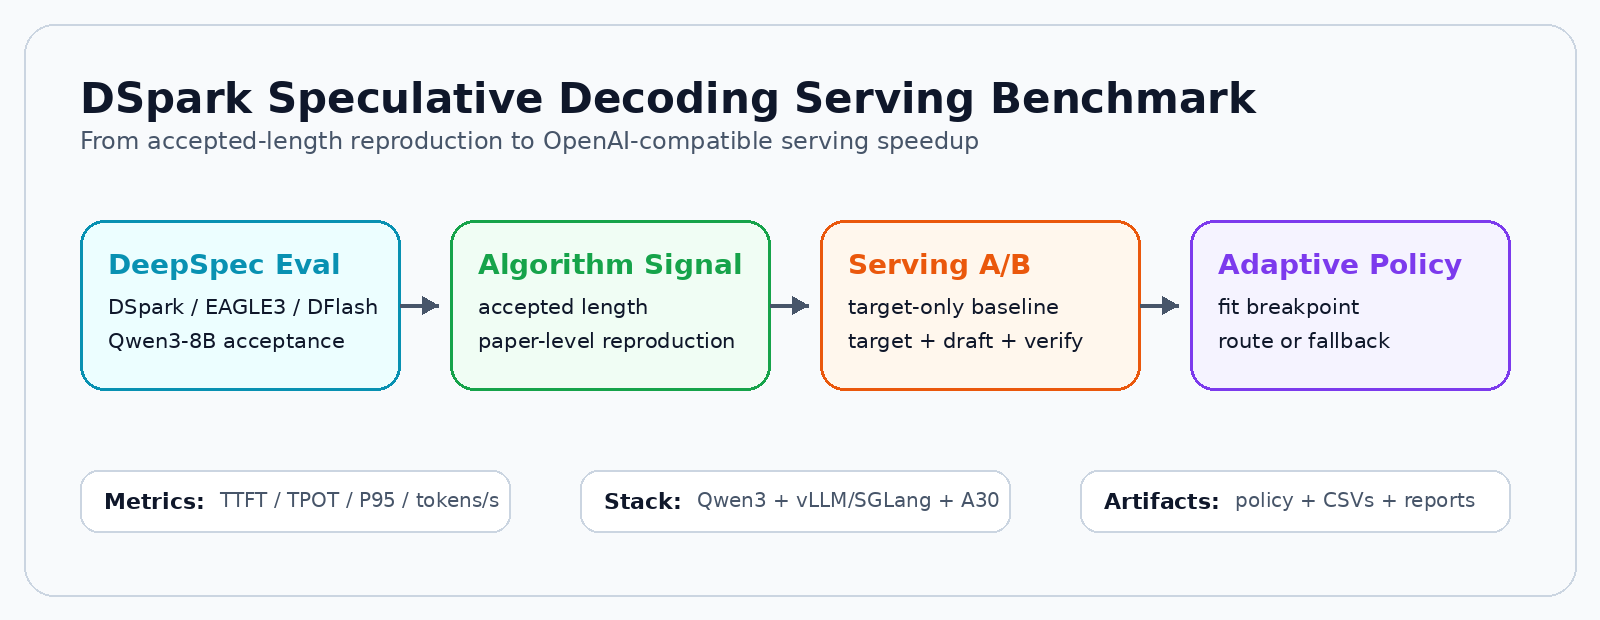
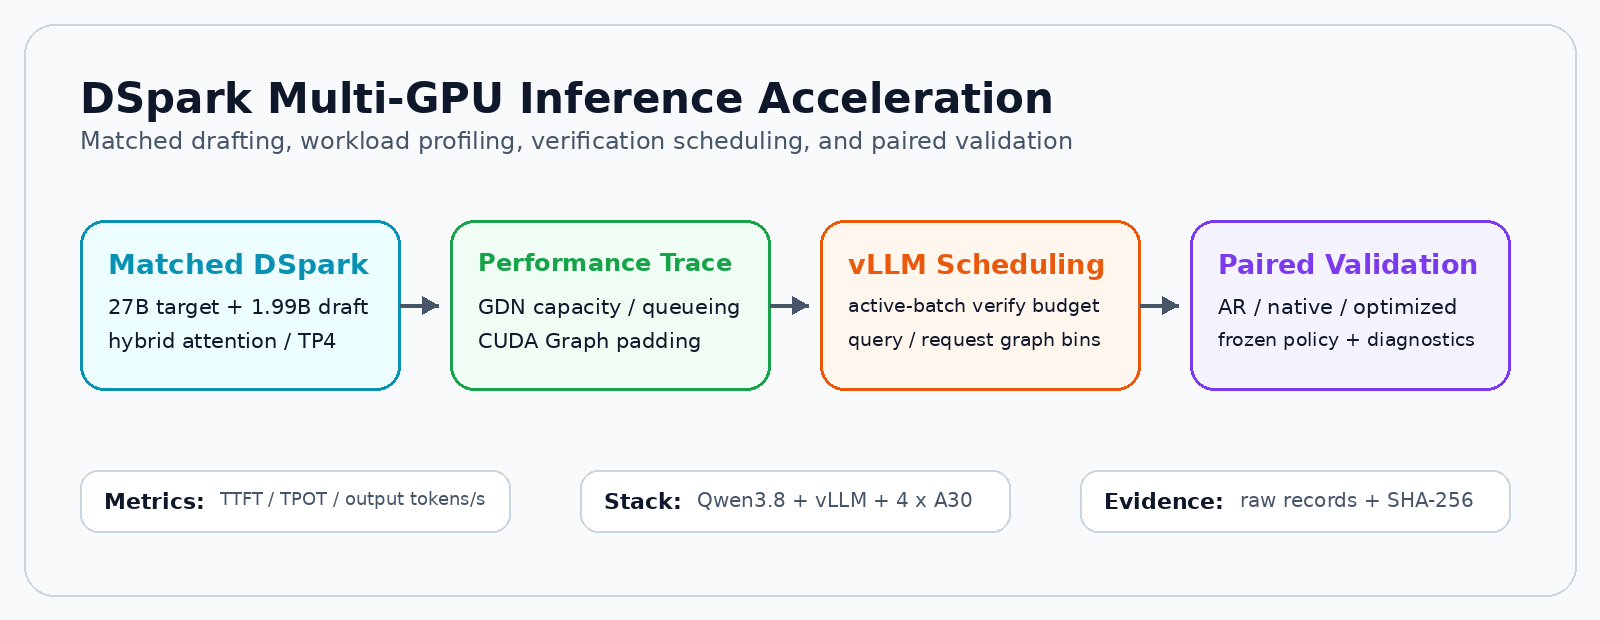
Restore README visuals and add data-driven DSpark performance charts

diff --git a/assets/generate_readme_figures.py b/assets/generate_readme_figures.py
@@ -3,12 +3,16 @@
 
 from __future__ import annotations
 
+import csv
+import json
 from pathlib import Path
+from statistics import median
 
 from PIL import Image, ImageDraw, ImageFont
 
 
 ROOT = Path(__file__).resolve().parent
+RESULTS = ROOT.parent / "results" / "qwen38_multigpu_20261003"
 
 
 COLORS = {
@@ -39,6 +43,15 @@ def font(size: int, bold: bool = False) -> ImageFont.FreeTypeFont:
     return ImageFont.load_default()
 
 
+def fitted_font(draw: ImageDraw.ImageDraw, text: str, width: float, size: int, bold: bool = False) -> ImageFont.FreeTypeFont:
+    while size > 12:
+        candidate = font(size, bold)
+        if draw.textlength(text, font=candidate) <= width:
+            return candidate
+        size -= 1
+    return font(size, bold)
+
+
 def rounded(draw: ImageDraw.ImageDraw, box: tuple[int, int, int, int], fill: str, outline: str, width: int = 2, radius: int = 24) -> None:
     draw.rounded_rectangle(box, radius=radius, fill=fill, outline=outline, width=width)
 
@@ -58,10 +71,12 @@ def arrow(draw: ImageDraw.ImageDraw, start: tuple[int, int], end: tuple[int, int
 
 def draw_card(draw: ImageDraw.ImageDraw, x: int, y: int, w: int, h: int, title: str, lines: list[str], color: str, fill: str) -> None:
     rounded(draw, (x, y, x + w, y + h), fill, color, width=3, radius=24)
-    draw.text((x + 28, y + 28), title, fill=color, font=font(28, True))
+    title_font = fitted_font(draw, title, w - 56, 28, bold=True)
+    draw.text((x + 28, y + 28), title, fill=color, font=title_font)
     ty = y + 74
     for line in lines:
-        draw.text((x + 28, ty), line, fill=COLORS["ink"], font=font(21))
+        draw.text((x + 28, ty), line, fill=COLORS["ink"],
+                  font=fitted_font(draw, line, w - 56, 21))
         ty += 34
 
 
@@ -70,20 +85,20 @@ def overview() -> None:
     draw = ImageDraw.Draw(img)
 
     rounded(draw, (24, 24, 1576, 596), COLORS["bg"], COLORS["line"], width=2, radius=30)
-    draw.text((80, 74), "DSpark Speculative Decoding Serving Benchmark", fill=COLORS["ink"], font=font(42, True))
+    draw.text((80, 74), "DSpark Multi-GPU Inference Acceleration", fill=COLORS["ink"], font=font(42, True))
     draw.text(
         (80, 126),
-        "From accepted-length reproduction to OpenAI-compatible serving speedup",
+        "Matched drafting, workload profiling, verification scheduling, and paired validation",
         fill=COLORS["muted"],
         font=font(24),
     )
 
     y, w, h = 220, 320, 170
     cards = [
-        (80, "DeepSpec Eval", ["DSpark / EAGLE3 / DFlash", "Qwen3-8B acceptance"], COLORS["cyan"], COLORS["cyan_bg"]),
-        (450, "Algorithm Signal", ["accepted length", "paper-level reproduction"], COLORS["green"], COLORS["green_bg"]),
-        (820, "Serving A/B", ["target-only baseline", "target + draft + verify"], COLORS["orange"], COLORS["orange_bg"]),
-        (1190, "Adaptive Policy", ["fit breakpoint", "route or fallback"], COLORS["violet"], COLORS["violet_bg"]),
+        (80, "Matched DSpark", ["27B target + 1.99B draft", "hybrid attention / TP4"], COLORS["cyan"], COLORS["cyan_bg"]),
+        (450, "Performance Trace", ["GDN capacity / queueing", "CUDA Graph padding"], COLORS["green"], COLORS["green_bg"]),
+        (820, "vLLM Scheduling", ["active-batch verify budget", "query / request graph bins"], COLORS["orange"], COLORS["orange_bg"]),
+        (1190, "Paired Validation", ["AR / native / optimized", "frozen policy + diagnostics"], COLORS["violet"], COLORS["violet_bg"]),
     ]
     for x, title, lines, color, fill in cards:
         draw_card(draw, x, y, w, h, title, lines, color, fill)
@@ -92,16 +107,16 @@ def overview() -> None:
         arrow(draw, (sx, y + h // 2), (sx + 38, y + h // 2))
 
     metrics = [
-        ("Metrics", "TTFT / TPOT / P95 / tokens/s"),
-        ("Stack", "Qwen3 + vLLM/SGLang + A30"),
-        ("Artifacts", "policy + CSVs + reports"),
+        ("Metrics", "TTFT / TPOT / output tokens/s"),
+        ("Stack", "Qwen3.8 + vLLM + 4 x A30"),
+        ("Evidence", "raw records + SHA-256"),
     ]
     for i, (title, body) in enumerate(metrics):
         x = 80 + i * 500
         rounded(draw, (x, 470, x + 430, 532), COLORS["card"], COLORS["line"], width=2, radius=18)
         title_text = f"{title}: "
         title_font = font(22, True)
-        body_font = font(20)
+        body_font = fitted_font(draw, body, 430 - 48 - draw.textlength(title_text, font=title_font) - 8, 20)
         draw.text((x + 24, 488), title_text, fill=COLORS["ink"], font=title_font)
         title_width = draw.textbbox((0, 0), title_text, font=title_font)[2]
         draw.text((x + 24 + title_width + 8, 488), body, fill=COLORS["muted"], font=body_font)
@@ -117,22 +132,27 @@ def speedup() -> None:
     draw.text((80, 74), "End-to-End Serving Speedup", fill=COLORS["ink"], font=font(42, True))
     draw.text(
         (80, 126),
-        "Measured through OpenAI-compatible baseline/speculative serving endpoints",
+        "Qwen3 / EAGLE3 checkpoints | c=1 output throughput vs autoregressive decoding",
         fill=COLORS["muted"],
         font=font(24),
     )
 
-    axis_x, axis_y, axis_w = 380, 500, 940
+    axis_x, axis_y, axis_w = 440, 500, 880
     draw.line((axis_x, axis_y, axis_x + axis_w, axis_y), fill=COLORS["line"], width=3)
     for value in [1.0, 1.2, 1.4, 1.6, 1.8]:
         x = axis_x + int((value - 1.0) / 0.8 * axis_w)
         draw.line((x, 210, x, axis_y), fill="#e2e8f0", width=2)
         centered_text(draw, (x - 40, axis_y + 18, x + 40, axis_y + 52), f"{value:.1f}x", COLORS["muted"], font(20))
 
+    with (ROOT.parent / "results" / "serving_speedup_summary.csv").open(newline="") as handle:
+        records = {row["configuration"]: row for row in csv.DictReader(handle)}
     rows = [
-        ("Qwen3-8B BF16", "single A30, breakpoint ~c=26", 1.76, COLORS["cyan"]),
-        ("Qwen3-32B BF16", "TP8, breakpoint ~c=8", 1.57, COLORS["green"]),
-        ("Qwen3-32B INT4", "TP4, breakpoint ~c=5", 1.43, COLORS["orange"]),
+        ("Qwen3-8B BF16", "single A30, breakpoint ~c=26",
+         float(records["qwen3_8b_bf16_single_a30"]["c1_speedup"]), COLORS["cyan"]),
+        ("Qwen3-32B BF16", "TP8, breakpoint ~c=8",
+         float(records["qwen3_32b_bf16_tp8"]["c1_speedup"]), COLORS["green"]),
+        ("Qwen3-32B INT4", "TP4, breakpoint ~c=5",
+         float(records["qwen3_32b_int4_tp4"]["c1_speedup"]), COLORS["orange"]),
     ]
     for i, (name, detail, value, color) in enumerate(rows):
         y = 226 + i * 92
@@ -144,7 +164,7 @@ def speedup() -> None:
 
     draw.text(
         (80, 572),
-        "Useful region: low-to-moderate concurrency, long outputs, matched workload, and decode-bound serving.",
+        "Bar origin: AR = 1.0x. Separate Qwen3 / EAGLE3 study; these values are not Qwen3.8 / DSpark results.",
         fill=COLORS["muted"],
         font=font(21),
     )
@@ -152,6 +172,157 @@ def speedup() -> None:
     img.save(ROOT / "speedup_summary.png")
 
 
+def read_results() -> tuple[list[dict], float, dict[str, dict], dict[str, dict]]:
+    native = json.loads((RESULTS / "native-paired-resumed.summary.json").read_text())
+    budget = json.loads((RESULTS / "budget-v2.summary.json").read_text())
+    closure = json.loads((RESULTS / "threeway-resumed.summary.json").read_text())
+    if not native["complete"] or not closure["complete"]:
+        raise ValueError("Figure inputs must be complete experiments")
+    rows = sorted(native["summary"], key=lambda row: row["concurrency"])
+    if [row["concurrency"] for row in rows] != [1, 4, 16] or any(row["rounds"] != 5 for row in rows):
+        raise ValueError("Expected five paired rounds for c=1/4/16")
+    c4 = [row["throughput_ratio"] for row in budget["pairs"]
+          if row["concurrency"] == 4 and row["comparison"] == "budget/native"]
+    if len(c4) != 5:
+        raise ValueError("Expected five held-out budget/native pairs at c=4")
+    return (rows, median(c4),
+            {row["comparison"]: row for row in closure["comparisons"]},
+            {row["mode"]: row for row in closure["modes"]})
+
+
+def figure_canvas(title: str, subtitle: str, height: float = 7.3):
+    import matplotlib
+    matplotlib.use("Agg")
+    from matplotlib import pyplot as plt
+    from matplotlib.patches import FancyBboxPatch
+
+    plt.rcParams.update({
+        "font.family": "DejaVu Sans", "font.size": 13,
+        "text.color": COLORS["ink"], "axes.labelcolor": COLORS["muted"],
+        "xtick.color": COLORS["muted"], "ytick.color": COLORS["muted"],
+        "axes.titleweight": "bold", "axes.edgecolor": COLORS["line"],
+        "savefig.facecolor": COLORS["bg"],
+    })
+    fig = plt.figure(figsize=(16, height), dpi=100, facecolor=COLORS["bg"])
+    fig.add_artist(FancyBboxPatch(
+        (0.015, 0.032), 0.97, 0.936, transform=fig.transFigure,
+        boxstyle="round,pad=0,rounding_size=0.02", linewidth=1.3,
+        edgecolor=COLORS["line"], facecolor="white", zorder=-10))
+    fig.text(0.05, 0.865, title, fontsize=29, fontweight="bold")
+    fig.text(0.05, 0.802, subtitle, fontsize=17, color=COLORS["muted"])
+    return fig, plt
+
+
+def clean_axes(ax, grid_axis: str = "y") -> None:
+    ax.set_axisbelow(True)
+    ax.grid(axis=grid_axis, color="#e2e8f0", linewidth=1)
+    ax.spines[["top", "right"]].set_visible(False)
+    ax.tick_params(axis="both", length=0, pad=10)
+
+
+def native_speedup(rows: list[dict]) -> None:
+    from matplotlib.ticker import FuncFormatter
+
+    fig, plt = figure_canvas(
+        "Qwen3.8-27B | DSpark Serving Speedup",
+        "4 x A30 / TP4 | BF16 | ~2K input / 256 output tokens | matched ~1.99B drafter")
+    colors = [COLORS["cyan"], COLORS["green"], COLORS["orange"]]
+    x = list(range(3))
+    ratios = [row["throughput_ratio"] for row in rows]
+    labels = [f'c={row["concurrency"]}' for row in rows]
+    ax = fig.add_axes((0.075, 0.225, 0.435, 0.455))
+    ax.set_title("Output throughput / autoregressive", loc="left", pad=22, fontsize=17)
+    ax.bar(x, ratios, color=colors, width=0.52, zorder=3)
+    ax.errorbar(x, ratios,
+                yerr=[[value - row["throughput_ratio_range"][0] for value, row in zip(ratios, rows)],
+                      [row["throughput_ratio_range"][1] - value for value, row in zip(ratios, rows)]],
+                fmt="none", ecolor=COLORS["ink"], elinewidth=1.3, capsize=5, zorder=4)
+    for pos, value in zip(x, ratios):
+        ax.text(pos, value + 0.14, f"{value:.3f}x", ha="center", fontsize=20, fontweight="bold")
+    ax.axhline(1.0, color=COLORS["muted"], linestyle=(0, (5, 4)), linewidth=1.4, zorder=2)
+    ax.plot([0.69, 0.76], [0.96, 0.96], transform=ax.transAxes,
+            color=COLORS["muted"], linestyle=(0, (5, 4)), linewidth=1.4)
+    ax.text(0.78, 0.96, "AR = 1.0x", transform=ax.transAxes,
+            va="center", fontsize=12, color=COLORS["muted"])
+    ax.set_ylim(0, 2.9)
+    ax.set_xlim(-0.65, 2.65)
+    ax.set_xticks(x, labels, fontsize=16)
+    ax.set_yticks([0, 0.5, 1.0, 1.5, 2.0, 2.5])
+    ax.yaxis.set_major_formatter(FuncFormatter(lambda v, _: f"{v:.1f}x"))
+    clean_axes(ax)
+
+    tp = fig.add_axes((0.625, 0.225, 0.305, 0.455))
+    tp.set_title("Client TPOT reduction", loc="left", pad=22, fontsize=17)
+    reductions = [row["tpot_reduction_fraction"] * 100 for row in rows]
+    tp.barh(x, reductions, height=0.47, color=colors, zorder=3)
+    for pos, value in zip(x, reductions):
+        tp.text(value + 2, pos, f"-{value:.1f}%", va="center", fontsize=19, fontweight="bold")
+    tp.set_yticks(x, labels, fontsize=16)
+    tp.set_ylim(2.65, -0.65)
+    tp.set_xlim(0, 85)
+    tp.set_xticks([0, 20, 40, 60, 80], ["0%", "20%", "40%", "60%", "80%"])
+    clean_axes(tp, "x")
+    tp.spines["left"].set_visible(False)
+
+    fig.text(0.05, 0.114, "5 paired rounds | median of within-round ratios | whiskers: five-round throughput range",
+             fontsize=14, color=COLORS["muted"])
+    fig.text(0.05, 0.065, "Independent AR / native deployments. Loading, graph capture and diagnostics excluded from timing.",
+             fontsize=12, color=COLORS["muted"])
+    fig.savefig(ROOT / "qwen38_speedup.png", dpi=100)
+    plt.close(fig)
+
+
+def framework_optimization(c4: float, comparisons: dict[str, dict], modes: dict[str, dict]) -> None:
+    from matplotlib.patches import FancyBboxPatch
+
+    fig, plt = figure_canvas(
+        "Verification Budget + CUDA Graph Bucketing",
+        "vLLM scheduling adaptation | calibrated on separate prompts | frozen policy during validation",
+        height=7.6)
+    ax = fig.add_axes((0.075, 0.33, 0.405, 0.35))
+    ax.set_title("Target graph padding ratio", loc="left", pad=20, fontsize=17)
+    padding = [modes[mode]["target_padding_ratio"] for mode in ["native", "graphs", "budget"]]
+    ax.bar(range(3), padding, color=[COLORS["orange"], COLORS["green"], COLORS["violet"]], width=0.5, zorder=3)
+    for pos, value in enumerate(padding):
+        ax.text(pos, value + 0.05, f"{value:.2f}", ha="center", fontsize=22, fontweight="bold")
+    ax.set_xticks(range(3), ["Original bins", "Fine bins", "Budget + bins"], fontsize=14)
+    ax.set_ylim(0, 1.7)
+    ax.set_yticks([0, 0.5, 1.0, 1.5])
+    ax.set_ylabel("Captured tokens / effective tokens", fontsize=12)
+    clean_axes(ax)
+
+    gain_ax = fig.add_axes((0.61, 0.33, 0.32, 0.35))
+    gain_ax.set_title("Throughput gain over original policy", loc="left", pad=20, fontsize=17)
+    gains = [(c4 - 1) * 100, (comparisons["budget/native"]["throughput_ratio"] - 1) * 100]
+    gain_ax.bar(range(2), gains, color=[COLORS["cyan"], COLORS["violet"]], width=0.45, zorder=3)
+    for pos, value in enumerate(gains):
+        gain_ax.text(pos, value + 0.4, f"+{value:.1f}%", ha="center", fontsize=23, fontweight="bold")
+    gain_ax.set_xticks(range(2), ["c=4", "c=16"], fontsize=16)
+    gain_ax.set_ylim(0, 10)
+    gain_ax.set_yticks([0, 2, 4, 6, 8, 10], ["0%", "2%", "4%", "6%", "8%", "10%"])
+    clean_axes(gain_ax)
+
+    fig.text(0.075, 0.24, "Padding: c=16 shared-pool ablation; shape counts, not GPU-time reduction.",
+             fontsize=12, color=COLORS["muted"])
+    fig.text(0.075, 0.197, "Gains: c=4 held-out ablation / c=16 direct comparison; five within-round ratio medians.",
+             fontsize=12, color=COLORS["muted"])
+    fig.add_artist(FancyBboxPatch(
+        (0.05, 0.064), 0.90, 0.095, transform=fig.transFigure,
+        boxstyle="round,pad=0,rounding_size=0.018", linewidth=1,
+        edgecolor="#bae6fd", facecolor=COLORS["cyan_bg"], zorder=-1))
+    ar = comparisons["budget/ar"]
+    low, high = ar["throughput_ratio_range"]
+    fig.text(0.068, 0.10,
+             f'c=16 direct AR check: {ar["throughput_ratio"]:.3f}x throughput  |  range {low:.3f}-{high:.3f}x  |  near parity',
+             fontsize=16, fontweight="bold", color=COLORS["cyan"])
+    fig.savefig(ROOT / "qwen38_optimization.png", dpi=100)
+    plt.close(fig)
+
+
 if __name__ == "__main__":
     overview()
     speedup()
+    native_rows, c4_gain, closure_comparisons, closure_modes = read_results()
+    native_speedup(native_rows)
+    framework_optimization(c4_gain, closure_comparisons, closure_modes)
+    print("Generated overview, Qwen3.8 speedup / optimization, and Qwen3 EAGLE3 charts from recorded results.")

diff --git a/README.md b/README.md
@@ -1,10 +1,24 @@
-# DSpark 多卡大模型推理加速
+# DSpark Speculative Decoding Serving Benchmark
+
+<p align="center">
+  <img src="assets/overview.png" alt="DSpark 多卡推理加速：匹配草稿接入、性能分析、调度优化与配对验证" width="920">
+</p>
+
+<p align="center">
+  <b>基于 DSpark 的多卡大模型推理加速与 vLLM 调度优化</b>
+</p>
+
+<p align="center">
+  <a href="#加速结果">加速结果</a> ·
+  <a href="#核心实现">核心实现</a> ·
+  <a href="#快速开始">快速开始</a> ·
+  <a href="benchmark/qwen38_multigpu/README.md">复现指南</a> ·
+  <a href="#实验与文档">实验报告</a>
+</p>
 
 基于 vLLM 接入 DSpark 投机解码，研究草稿接受收益如何转化为真实服务加速，并针对高并发下的验证与调度开销实现框架优化。
 
 核心实验面向包含 **Gated DeltaNet（GDN）** 的混合注意力模型，在 **4×NVIDIA A30、TP4** 上部署 **Qwen3.8-27B BF16 + 匹配的 DSpark 草稿模型**：低并发生成吞吐达到自回归基线的 **2.43×**；通过统一验证预算与 CUDA Graph 分档，在并发 4 / 16 下较原始 DSpark 策略再提升 **6.3% / 7.8%**。
-
-[快速开始](#快速开始) · [实现代码](benchmark/qwen38_multigpu) · [完整复现指南](benchmark/qwen38_multigpu/README.md) · [实验报告](#实验与文档)
 
 ## 项目目标
 
@@ -24,6 +38,10 @@
 
 目标模型 Qwen3.8-27B，匹配草稿约 **1.99B 参数**。实验使用 vLLM **0.29.0**、4×A30 TP4、约 **2K 输入 / 256 实际输出 token**，每卡缓存预算 **4.5 GiB**；冻结同一组公开 ShareGPT 负载，进行五轮配对测试。
 
+<p align="center">
+  <img src="assets/qwen38_speedup.png" alt="Qwen3.8 DSpark：并发 1/4/16 吞吐为自回归的 2.433/1.688/0.898 倍，TPOT 降低 63.9%/55.9%/27.3%" width="920">
+</p>
+
 | 请求并发 | 原生 DSpark / 自回归吞吐 | 客户端 TPOT 降幅 |
 | ---: | ---: | ---: |
 | 1 | **2.433×** | **63.9%** |
@@ -33,6 +51,10 @@
 低并发下，减少目标模型串行执行轮次带来明显加速；并发 16 时，接受长度更高，整体吞吐却低于自回归，说明接受率之外的系统开销需要单独分析。
 
 ### 调度与图捕获优化增量
+
+<p align="center">
+  <img src="assets/qwen38_optimization.png" alt="CUDA Graph padding 比 1.41→1.09；预算与图分档在并发 4/16 下较原始策略提升吞吐 6.3%/7.8%，并发 16 直接 AR 对照为 0.995 倍" width="920">
+</p>
 
 | 对比 | 并发 | 五轮配对吞吐变化 |
 | --- | ---: | ---: |
@@ -49,6 +71,9 @@
 
 ## 核心实现
 
+<details>
+<summary>投机解码执行路径</summary>
+
 ```mermaid
 flowchart LR
     A[OpenAI-compatible 请求] --> B[DSpark 草稿生成 7-token block]
@@ -58,6 +83,8 @@ flowchart LR
     E --> F[状态更新与流式输出]
     F --> B
 ```
+
+</details>
 
 ### 统一验证预算
 
@@ -126,6 +153,12 @@ python benchmark/qwen38_multigpu/summarize.py outputs/qwen38-native.json
 
 仓库从算法接受长度、服务端加速到框架优化形成一条验证链。下表按实验问题组织；各模型、草稿、精度与运行时的结果分别记录。
 
+<p align="center">
+  <img src="assets/speedup_summary.png" alt="Qwen3 EAGLE3 服务评测：8B 单卡、32B BF16 TP8、32B INT4 TP4 的低并发收益" width="920">
+</p>
+
+上图展示 **Qwen3 / EAGLE3** 在并发 1 下的单独评测，用于比较 TP 和量化配置的收益边界；Qwen3.8 / DSpark 的主实验结果见上方。
+
 | 实验 | 覆盖与用途 | 文档 |
 | --- | --- | --- |
 | 混合注意力模型多卡加速 | Qwen3.8-27B BF16 + 匹配 DSpark，4×A30 TP4；接入、验证预算和图捕获优化 | [实验与消融](reports/qwen38_dspark_tp4_20261003.md) / [直接对照与诊断](reports/qwen38_dspark_closure_20261003.md) |
@@ -162,3 +195,15 @@ results/
 reports/                   # 算法复现、服务评测、消融与诊断报告
 scripts/                   # DeepSpec 与 Qwen3 服务实验启动脚本
 ```
+
+<details>
+<summary>重新生成 README 图表</summary>
+
+图表沿用统一的卡片与配色风格，性能数值直接读取仓库中的 JSON / CSV 结果。
+
+```bash
+python3 -m pip install -r assets/requirements.txt
+python3 assets/generate_readme_figures.py
+```
+
+</details>
